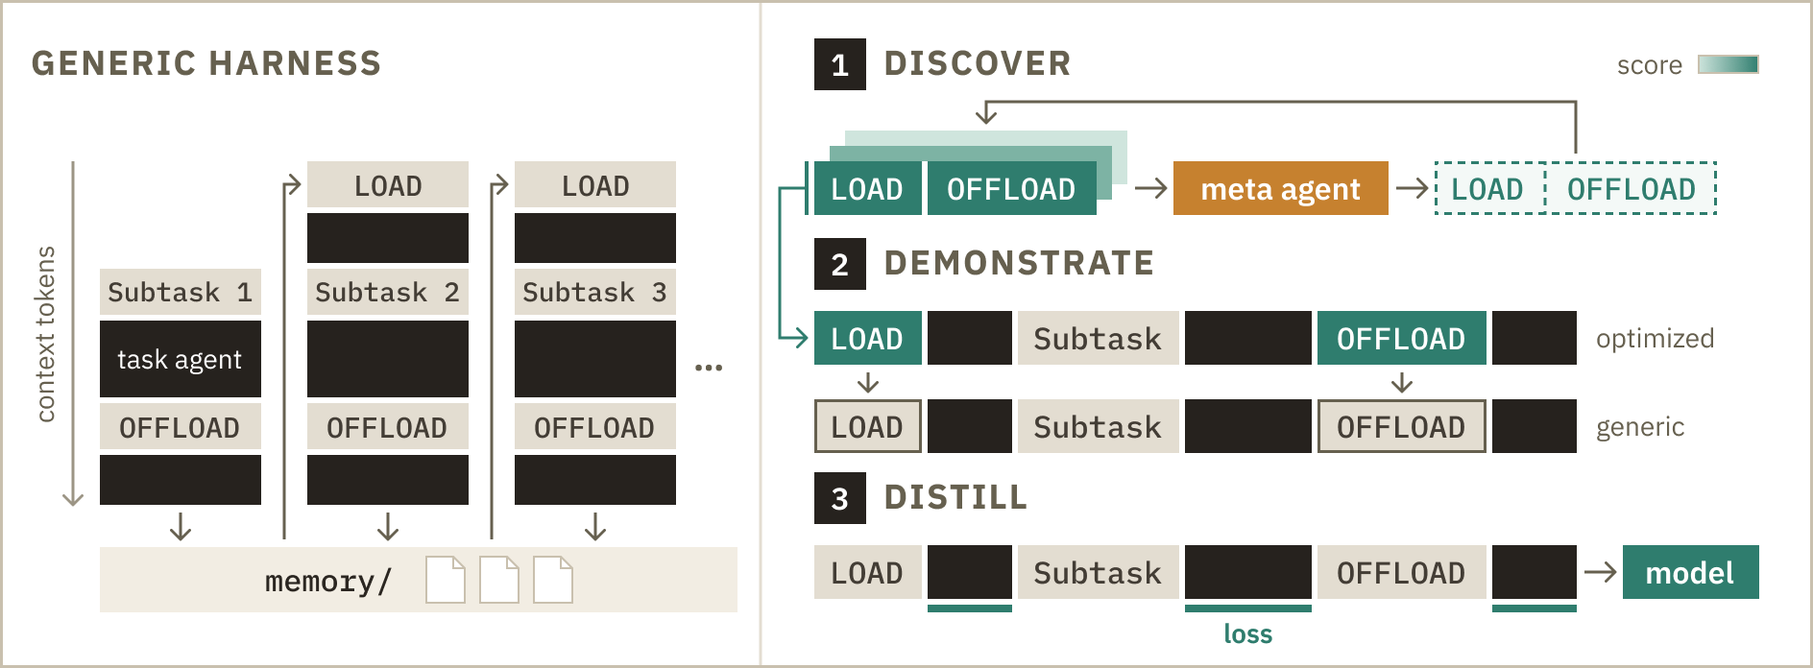
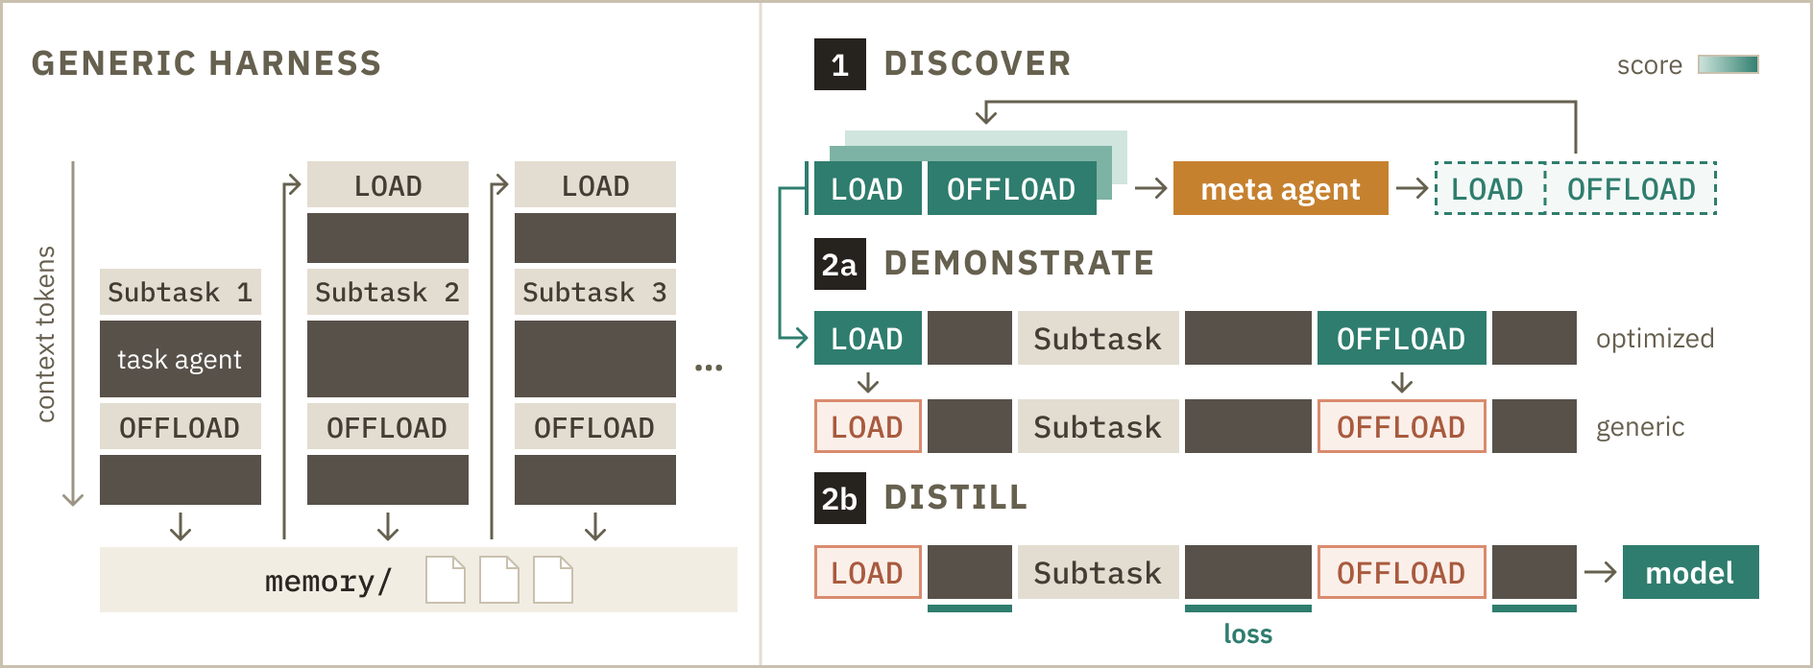
deploy: eed57fe5cabd214a8c74611cd3257837fcc964f4

diff --git a/blogs/self_improving_memory/README.md b/blogs/self_improving_memory/README.md
@@ -86,9 +86,9 @@ MathJax = {
   <a href="fig1_teaser.png"><img src="fig1_teaser.png" alt="Figure 1: the Self-Improving Memory framework, harness optimization and harness distillation, with the results of each" /></a>
 </div>
 
-<p class="sim-figure-hint">Swipe to explore the figure; tap to open it at full size.</p>
+<p class="sim-figure-hint">Swipe to explore the figure, or tap to open it at full size.</p>
 
-_Figure 1. **Self-Improving Memory.** Our framework includes harness optimization and harness distillation. With harness optimization, we reach an average test score of 56.0, compared with 44.6 for the best hand-written prompts and 36.1 for generic prompts. With harness distillation, the fine-tuned model reaches 43.1 using only generic prompts, compared with 37.6 for a model fine-tuned on its own generic-prompt runs._
+_Figure 1. **A model (Kimi-K2.6) teaches itself better memory capabilities.** It first rewrites its own memory prompts for each task, keeping the versions that score best (harness optimization). It then runs with those prompts, swaps them back to generic ones in the recorded runs, and is fine-tuned on the result, so part of what the prompts taught moves into its weights (harness distillation). On three Continual Learning Bench tasks, its optimized prompts beat the best hand-written ones (56.0 vs 44.6). After fine-tuning, it scores 43.1 with only generic prompts, compared with 37.6 when trained on its generic-prompt runs._
 
 ## Overview
 
@@ -104,25 +104,22 @@ In harness distillation, the task agent runs with the optimized prompts, we swap
 The meta agent and the task agent use the same model (Kimi-K2.6), so the model is trained on memory skills it discovered itself.
 Training carries part of the gain from better prompts into the model's weights.
 
-## Motivation: No single memory design wins all tasks
 
-**Memory helps agents learn from experience.**
-An agent working through a stream of related subtasks keeps running into the same things: the same database tables, the same kinds of bugs, the same transmitters on the radio band.
-If it writes down what it learns, later subtasks get easier.
-In our setting, every subtask starts in a fresh session with an empty context; the only thing that carries over from one session to the next is a persistent memory directory, which the agent reads and writes with file tools.
+## Motivation: Memory skills should be learned
 
-**We tested this on three tasks from Continual Learning Bench (CL-Bench) 1.0.**
-In Database, the agent answers questions about a SQLite database it has never seen.
-In Codebase, it fixes bugs in Python repositories.
-In Spectrum, it works out which radio channels are occupied from noisy scans.
+**Agents can improve with experience.**
+An agent that works on multiple related tasks can pick up reusable knowledge from earlier tasks and apply it to later ones.
+Persistent memory makes this possible by letting information pass beyond the boundary of a single task.
+In our setting, every subtask starts in a fresh session with an empty context, and the only thing that carries over is a persistent memory directory that the agent reads and writes with file tools.
 
-**How the agent should use that directory is less clear.**
-We kept the scaffold (OpenCode) and the task agent (Kimi-K2.6) fixed and changed only two prompts: LOAD, shown before each subtask, and OFFLOAD, shown after it.
-Together they tell the agent what to write down, how to organize it, and when to read it back.
-We wrote four versions, each built around a different memory representation, and none of them wins on all three tasks (Figure 2).
+**No single memory design wins on every task.**
+We ran agents on three tasks from Continual Learning Bench 1.0 (database question answering, code repair, and spectrum monitoring) with several hand-engineered memory designs, each built around a different memory representation.
+Each design is a pair of prompts: one for offloading what the agent learned into memory after a task (a step also known as dreaming), and one for loading from memory before the next.
+Echoing the findings of Continual Learning Bench, no single design is best on all tasks (Figure 2).
 
-The right way to use memory depends on the task, and whoever writes the prompt has to guess it.
-Our goal is to teach the model to work this out itself: to learn, for each task, what to remember, how to organize it, and when to read it back.
+**So the model should learn its own memory design.**
+Rather than following a hand-written design, it should decide what to write, how to organize it, and what to recall.
+Self-Improving Memory does this in two stages, harness optimization and harness distillation, which we describe next.
 
 <a id="fig-tasks-vs-harness"></a>
 
@@ -130,27 +127,32 @@ Our goal is to teach the model to work this out itself: to learn, for each task,
   <a href="fig2_tasks_vs_harness.png"><img src="fig2_tasks_vs_harness.png" alt="Figure 2: the three tasks with example subtasks, and test scores of the generic and four human-written harnesses" /></a>
 </div>
 
-<p class="sim-figure-hint">Swipe to explore the figure; tap to open it at full size.</p>
+<p class="sim-figure-hint">Swipe to explore the figure, or tap to open it at full size.</p>
 
-_Figure 2. **No single memory representation wins every task.** Left: the three tasks with an example subtask (input, intermediate tool calls, and the submitted answer or solution). Right: test scores of the generic harness and four human-written harnesses; a triangle marks the best of the five per task._
+_Figure 2. **No single memory representation wins every task.** Left: the three tasks, each with an example subtask (input, tool calls, answer). Right: test scores of the generic harness and four hand-written harnesses that differ only in their memory instructions. ▼ marks the best per task._
 
-## Self-Improving Memory
+## Method: Self-Improving Memory
 
 Our goal is to optimize a task model's weights for continual learning tasks under a fixed generic harness.
-To achieve this, we propose Self-Improving Memory, which follows a Discover-Demonstrate-Distill pipeline: a meta agent first discovers memory-management skills through harness optimization; the task agent then generates trajectories that demonstrate these skills; finally, we distill the demonstrated skills into model weights.
+To achieve this, we propose Self-Improving Memory, which follows a Discover-Demonstrate-Distill pipeline: a meta agent first discovers memory-management skills through harness optimization, the task agent then generates trajectories that demonstrate these skills, and finally we distill the demonstrated skills into model weights.
 Because the meta agent and the task agent use the same model, this process updates the task model's weights to internalize skills discovered by the model itself.
 
-### The generic harness
+### Setup: The generic harness
 
 A *task agent* consists of a task model and a harness.
 We use a file system as persistent memory in our *generic harness*.
 The memory directory starts empty and persists throughout the task stream.
-The generic harness provides file read, write, and edit tools together with two task-independent instructions.
-After a subtask is scored, OFFLOAD asks the task agent to update its persistent memory using the completed interaction.
+The harness provides file-reading, writing, and editing tools, along with two task-independent instructions: LOAD and OFFLOAD.
+After each subtask is scored, an OFFLOAD prompt instructs the model to update its persistent memory based on the completed interaction.
 The live context is then cleared.
-Before the next subtask, LOAD asks the task agent to recover useful information from the memory directory.
-These instructions specify when the agent should interact with memory without prescribing a task-specific representation such as a schema table, skill library, or entity inventory.
-As shown in Figure 3, files rather than a summary in the live context carry information across the subtask boundary.
+Before the next subtask begins, a LOAD prompt allows the model to retrieve relevant information from memory.
+The model may read memory files immediately at the start of a subtask (e.g., README.md) or defer doing so until later in the problem-solving process.
+In the generic harness, the LOAD and OFFLOAD instructions are deliberately concise: they simply direct the model to manage its memory through file-tool calls while leaving the specific strategy to the model itself.
+These instructions can, however, be made more detailed and prescriptive.
+For example, by specifying when the agent should access memory or how information should be organized into tables, skill libraries, or entity inventories.
+We explore such designs in the next subsection.
+
+<!-- As shown in Figure 3 (left), files rather than a summary in the live context carry information across the subtask boundary. -->
 
 <a id="fig-method"></a>
 
@@ -158,24 +160,24 @@ As shown in Figure 3, files rather than a summary in the live context carry info
   <a href="fig3_method.png"><img src="fig3_method.png" alt="Figure 3: method overview" /></a>
 </div>
 
-<p class="sim-figure-hint">Swipe to explore the figure; tap to open it at full size.</p>
+<p class="sim-figure-hint">Swipe to explore the figure, or tap to open it at full size.</p>
 
-_Figure 3. Self-Improving Memory learns memory-management behavior while keeping the generic harness fixed at deployment._
+_Figure 3. **The generic harness and the two stages.** Left: before and after each subtask, LOAD and OFFLOAD prompts make the task agent read and update a memory directory. The context is then cleared, so only the memory files carry over. Right: (1) a meta agent revises the prompts from trajectories and scores. (2a) The agent runs with the optimized prompts, which we then replace with the generic ones so that in (2b) we can fine-tune on these trajectories, with the loss on the model's outputs (dark blocks)._
 
 ### Harness Optimization
 
-We discover task-specific memory-management skills by optimizing the harness instructions.
+Our method first discovers task-specific memory-management skills by optimizing the harness instructions.
 To learn effective memory designs, the agent needs guidance on what to extract from experience, how to organize it, and what to retrieve for later subtasks.
 We therefore make the instructions at the LOAD and OFFLOAD stages learnable, allowing the search to shape both how the agent uses memory and how it updates memory.
 We implement these instructions as two Markdown files that the harness supplies to the task model at the corresponding stages.
-Our meta-optimization loop analyzes task-agent trajectories and evaluates different memory designs to find LOAD and OFFLOAD instructions that maximize the task agent's mean test score.
+Our meta-optimization loop analyzes task-agent trajectories and evaluates different memory designs to find LOAD and OFFLOAD instructions that maximize the task agent's mean score.
 
-The meta-optimization loop consists of a *meta agent*, which analyzes trajectories and scores from the train subtasks to propose revised harness instructions, and an *outer loop*, which evaluates the resulting harnesses and uses test scores to select promising designs for further revision.
+The meta-optimization loop consists of a *meta agent*, which analyzes trajectories and task scores from the train subtasks to propose revised harness instructions, and an *outer loop*, which evaluates the resulting harnesses and uses the resulting task scores to select promising designs for further revision.
 We implement this search as follows:
 
 - **Initialize the pool.** We start with four human-written harnesses representing summary, retrieval, skill-library, and hypothesis-tracking memory designs.
 - **Evaluate the harnesses.** For each unevaluated candidate, the task agent executes the full task stream five times, producing trajectories, subtask scores, and memory directories.
-- **Select promising designs.** We rank the pool by mean test score across the five runs and select the top four harnesses as parents for revision.
+- **Select promising designs.** We rank the pool by mean task score across the five runs and select the top four harnesses as parents for revision.
 - **Analyze experience and propose new designs.** For each parent, a meta agent receives the task-agent message lists, subtask scores, and final memory directories from the train subtasks. It identifies failures in how the task agent constructs or reuses memory and proposes instruction changes to address them. To analyze the long trajectories, it first summarizes each subtask, then analyzes each complete run, and finally consolidates evidence across runs into revised LOAD and OFFLOAD instructions. Each revised instruction pair enters the pool as a new candidate for evaluation.
 
 We repeat this procedure for a given number of iterations and select the highest-ranking surviving harness.
@@ -184,11 +186,11 @@ We repeat this procedure for a given number of iterations and select the highest
 
 **Demonstrate.**
 We turn the discovered memory-management and task-solving behaviors into training demonstrations under the generic harness.
-For each task, we select the harness with the highest mean test score and run the base task model under this optimized harness on the train subtasks.
+For each task, we select the harness with the highest mean task score and run the base task model under this optimized harness on the train subtasks.
 We log every language model call, including its prompt, response, reasoning content, tool calls and arguments, and the corresponding tool responses.
 We then replace the optimized LOAD and OFFLOAD instructions wherever they appear in the recorded history with their generic counterparts.
 This replacement works because the demonstrated behavior stays compatible with the generic instructions: the optimized harness specifies a memory design, while the generic harness leaves those choices to the model.
-Compatible behaviors include *organizing memory files* (`QUICKSTART.md` for repository metadata, `REGISTRY.md` for reusable fixes, and `SCHEMA.md` for schema facts), *recording useful facts* (table relationships, column types, price units, timestamp encodings, and test commands), and *reusing problem-solving strategies* (running tests before editing, checking analogous functions, and verifying join keys before aggregation).
+For example, compatible behaviors include *organizing memory files* (`QUICKSTART.md` for repository metadata, `REGISTRY.md` for reusable fixes, and `SCHEMA.md` for schema facts), *recording useful facts* (table relationships, column types, price units, timestamp encodings, and test commands), and *reusing problem-solving strategies* (running tests before editing, checking analogous functions, and verifying join keys before aggregation).
 
 **Distill.**
 For $K$ tasks, let $\mathcal D_k$ denote the transformed demonstrations from the train subtasks of task $k$.
@@ -206,7 +208,7 @@ $$
 $$
 
 Here $A_\tau$ indexes assistant tokens, including reasoning and tool calls, while instructions, task requests, and tool responses provide context and are masked from the loss.
-The count $N_k=\sum_{\tau\in\mathcal D_k}|A_\tau|$ is the number of supervised tokens for task $k$; normalization by $N_k$ and averaging over $K$ tasks give each task equal weight.
+The count $N_k=\sum_{\tau\in\mathcal D_k}|A_\tau|$ is the number of supervised tokens for task $k$. Normalization by $N_k$ and averaging over $K$ tasks give each task equal weight.
 This objective trains the model to internalize the demonstrated capabilities in its weights and reproduce them under generic memory instructions.
 
 
@@ -217,10 +219,10 @@ For each task, we initialize the search with four human-written seed harnesses: 
 We run four search generations on Database and Codebase and three on Spectrum, generating four new harnesses per generation and evaluating each candidate over five complete task runs.
 We finetune Kimi-K2.6 with LoRA applied to attention projections, using rank 8, scaling factor 16, and no dropout.
 
-We cut each CL-Bench task stream into train and test subtasks at an environment transition: Database moves to a migrated database, Codebase to new repositories, and Spectrum from wideband to narrowband activity.
-The meta agent analyzes only train trajectories and distillation trains only on them; test subtasks are used for scoring.
+We cut each Continual Learning Bench task stream into train and test subtasks at an environment transition: Database moves to a migrated database, Codebase to new repositories, and Spectrum from wideband to narrowband activity.
+The meta agent analyzes only train trajectories and distillation trains only on them. Test subtasks are used for scoring.
 
-We compare four settings to assess the effects of persistent memory and model finetuning. *No memory* clears the base model's context at each subtask boundary with neither a summary nor a memory directory, so no information carries over between subtasks. *Summary-based compaction* summarizes the base model's context at the boundary and passes the summary to the next subtask. Under the *Generic harness*, the base model uses the task-independent LOAD and OFFLOAD instructions defined above, with files carrying information across subtask boundaries. The *Generic harness with a finetuned model* compares supervised finetuning (SFT) on two sets of trajectories: *SFT on generic trajectories*, collected with the generic harness, and *SFT on optimized trajectories* (Harness Distillation), the Self-Improving Memory model trained on optimized-harness trajectories rewritten with generic instructions; both finetuned models use the same instructions and tools during evaluation, and the base model under the generic harness is the *No fine-tuning* reference.
+We compare four settings to assess the effects of persistent memory and model finetuning. *No memory* clears the base model's context at each subtask boundary with neither a summary nor a memory directory, so no information carries over between subtasks. *Summary-based compaction* summarizes the base model's context at the boundary and passes the summary to the next subtask. Under the *Generic harness*, the base model uses the task-independent LOAD and OFFLOAD instructions defined above, with files carrying information across subtask boundaries. The *Generic harness with a finetuned model* compares supervised finetuning (SFT) on two sets of trajectories: *SFT on generic trajectories*, collected with the generic harness, and *SFT on optimized trajectories* (Harness Distillation), the Self-Improving Memory model trained on optimized-harness trajectories rewritten with generic instructions. Both finetuned models use the same instructions and tools during evaluation, and the base model under the generic harness is the *No SFT* reference.
 
 ### Automatic harness optimization delivers substantial gains
 
@@ -228,7 +230,7 @@ We select the best observed optimized harness separately for each task.
 Averaging the three selected task scores gives a mean of 56.0, an improvement of 11.4 points over the human-written seeds selected for each task and 19.9 points over Generic (Figure 4).
 The optimized harnesses improve over the selected human-written seeds on all three tasks, with the largest gain on Codebase (20.6 points).
 On Spectrum, Generic and Optimized have nearly the same raw first-subtask score (21.7 and 21.9), but reach test means of 42.5 and 49.9 as experience accumulates (Figure 5a).
-Both the human-written seeds and optimized harnesses are selected by test score, so these are the best observed scores among evaluated candidates.
+Both the human-written seeds and optimized harnesses are selected by task score, so these are the best observed scores among evaluated candidates.
 
 <a id="fig-harness-results"></a>
 
@@ -236,9 +238,9 @@ Both the human-written seeds and optimized harnesses are selected by test score,
   <a href="fig4_harness_results.png"><img src="fig4_harness_results.png" alt="Figure 4: harness optimization results per task" /></a>
 </div>
 
-<p class="sim-figure-hint">Swipe to explore the figure; tap to open it at full size.</p>
+<p class="sim-figure-hint">Swipe to explore the figure, or tap to open it at full size.</p>
 
-_Figure 4. **The optimized harnesses improve over the selected human-written seeds on all three tasks.** Harness optimization results. +N is the gain over the best human-written harness per task._
+_Figure 4. **Optimized harnesses beat the best hand-written harness on every task.** Error bars show 95% CIs. Best human-written is the best of the four hand-written harnesses for each task, and +N is the Optimized gain over it._
 
 ### Meta-optimization requires evaluation and selection
 
@@ -248,21 +250,20 @@ Progress therefore depends on evaluating proposals and retaining the best observ
 
 <a id="fig-learning-search"></a>
 
-<div class="sim-figure sim-figure--pair">
-  <a href="fig5a_subtask_curves.png"><img src="fig5a_subtask_curves.png" alt="Figure 5a: performance across subtasks" /></a>
-  <a href="fig5b_search_trace.png"><img src="fig5b_search_trace.png" alt="Figure 5b: progress of harness optimization" /></a>
+<div class="sim-figure" style="--figure-width: 100%; --mobile-width: 900px;">
+  <a href="fig5_learning_and_search.png"><img src="fig5_learning_and_search.png" alt="Figure 5: left, subtask scores across the task stream. Right, every harness evaluated during the search" /></a>
 </div>
 
-<p class="sim-figure-hint">Swipe to explore the figure; tap to open it at full size.</p>
+<p class="sim-figure-hint">Swipe to explore the figure, or tap to open it at full size.</p>
 
-_Figure 5. Learning across subtasks and progress of harness optimization. (a) Performance across subtasks. Curves use the same runs as the bars in Figure 4 and are smoothed separately on each side of the train/test transition. (b) Progress of harness optimization. Each point is one evaluated harness; the step line shows the best observed score. Steps 0 and 1 denote Generic and human-written seeds; subsequent steps are search iterations._
+_Figure 5. **Learning across subtasks, and search progress.** Left: subtask scores for the runs in Figure 4, where the dashed line marks the train/test environment shift. Right: each dot is one evaluated harness (iteration 0: Generic, iteration 1: hand-written seeds, iterations 2 and later: harnesses proposed by the meta agent). The line tracks the best score so far._
 
 ### Case Study of Meta-Optimization
 
 Figure 6 illustrates how trajectory reports guide revisions of the Codebase memory harness.
-The Summary harness scores 34.3, barely above Generic at 33.5 and well below the best seed at 43.7; its report identifies growing monolithic notes and repeated repository discovery.
+The Summary harness scores 34.3, barely above Generic at 33.5 and well below the best seed at 43.7. Its report identifies growing monolithic notes and repeated repository discovery.
 A revision that reuses recorded paths and retains failure rules scores 52.2.
-The next report diagnoses an append-only file without an index mapping symptoms to fixes; a revision with a compact quickstart, an indexed registry, and separate fix files scores 55.7.
+The next report diagnoses an append-only file without an index mapping symptoms to fixes, and a revision with a compact quickstart, an indexed registry, and separate fix files scores 55.7.
 An alternative Summary revision that retains details of only the last two fixes scores 36.6.
 
 <a id="fig-case-meta-optimization"></a>
@@ -271,18 +272,18 @@ An alternative Summary revision that retains details of only the last two fixes 
   <a href="fig6_case_study.png"><img src="fig6_case_study.png" alt="Figure 6: revisions of the Codebase memory harness guided by trajectory reports" /></a>
 </div>
 
-<p class="sim-figure-hint">Swipe to explore the figure; tap to open it at full size.</p>
+<p class="sim-figure-hint">Swipe to explore the figure, or tap to open it at full size.</p>
 
-_Figure 6. Revisions of the Codebase memory harness guided by trajectory reports. Reports identify repeated exploration and missing retrieval structure, motivating changes to LOAD and OFFLOAD._
+_Figure 6. **How the meta agent revises the Codebase harness.** Each box shows a harness's LOAD and OFFLOAD prompts and test score. Each report diagnoses that harness's trajectories and motivates the next revision. Underlines mark the key changes._
 
 ### Training internalizes part of these gains
 
 We finetune on demonstrations from train subtasks and evaluate generalization to test subtasks of the same tasks after domain shifts.
-We compare SFT on optimized trajectories (Harness Distillation), trained on optimized-harness trajectories rewritten with generic instructions, with SFT on generic trajectories, trained on generic-harness trajectories; both use the same LoRA recipe and are evaluated with the generic harness.
-Across ten matched evaluation seeds, Harness Distillation reaches an overall mean test score of 43.1 versus 37.6 for SFT on generic trajectories, a gain of 5.5 points (14.7%; Figure 7).
-Its 7.0-point gain over No fine-tuning (36.1, the same reference evaluation as Generic in Figure 4) is descriptive because the base model was evaluated separately.
+We compare SFT on optimized trajectories (Harness Distillation), trained on optimized-harness trajectories rewritten with generic instructions, with SFT on generic trajectories, trained on generic-harness trajectories. Both use the same LoRA recipe and are evaluated with the generic harness.
+Across ten matched evaluation seeds, Harness Distillation reaches an overall mean test score of 43.1 versus 37.6 for SFT on generic trajectories, a gain of 5.5 points (14.7%, Figure 7).
+Its 7.0-point gain over No SFT (36.1, the same reference evaluation as Generic in Figure 4) is descriptive because the base model was evaluated separately.
 The improved test scores show that the finetuned model generalizes within the same tasks under domain shift, using generic memory instructions.
-We hypothesize that the gain partly reflects improved memory organization and retrieval, alongside task-solving behavior; isolating this mechanism requires direct behavioral analysis.
+We hypothesize that the gain partly reflects improved memory organization and retrieval, alongside task-solving behavior, but isolating this mechanism requires direct behavioral analysis.
 
 <a id="fig-distillation-results"></a>
 
@@ -290,9 +291,9 @@ We hypothesize that the gain partly reflects improved memory organization and re
   <a href="fig7_distillation.png"><img src="fig7_distillation.png" alt="Figure 7: model distillation under generic instructions" /></a>
 </div>
 
-<p class="sim-figure-hint">Swipe to explore the figure; tap to open it at full size.</p>
+<p class="sim-figure-hint">Swipe to explore the figure, or tap to open it at full size.</p>
 
-_Figure 7. **The generic-trajectory control suggests that optimized harnesses produce more effective demonstrations for a model deployed with generic instructions.** Model distillation under generic instructions. All models are evaluated with the generic harness; SFT on optimized trajectories (Harness Distillation) finetunes on optimized-harness trajectories whose instructions are replaced with the generic ones. +N is the gain over No fine-tuning._
+_Figure 7. **Harness distillation moves part of the gain into the model's weights.** All models run with the generic harness. SFT on generic trajectories trains on generic-harness runs, and SFT on optimized trajectories trains on optimized-harness runs with the prompts swapped back to generic. Error bars show 95% CIs, and +N is the gain over No SFT._
 
 ## Conclusion
 
